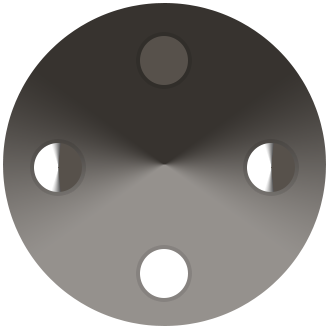
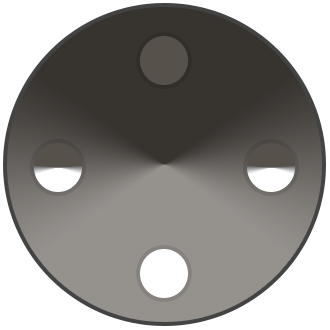
Added moon and season disks

diff --git a/src/views/sunandmoon-disks-pixi.js b/src/views/sunandmoon-disks-pixi.js
@@ -1,0 +1,240 @@
+// src/views/sunandmoon-disks-pixi.js
+// Two rotating HUD disks: Moon cycle + Season cycle.
+// Pure view module: reads state, never mutates it.
+
+import {
+  SEASON_DURATION_SEC,
+  MOON_CYCLE_SEC,
+  MOON_PHASE_OFFSET_SEC,
+} from "../defs/gamesettings/gamerules-defs.js";
+
+export const SUN_AND_MOON_DISKS_LAYOUT = {
+  enabled: true,
+
+  moon: {
+    x: 1375,
+    y: -10,
+    scale: 0.5,
+    alpha: 1.0,
+    rotationOffsetRad: 3,
+    clockwise: true,
+    texturePath: "/images/MoonDisk_01.png",
+  },
+
+  season: {
+    x: 1300,
+    y: -10,
+    scale: 0.75,
+    alpha: 1.0,
+    rotationOffsetRad: 0,
+    clockwise: true,
+    texturePath: "/images/SeasonDisk_01.png",
+    quadrants: 4,
+  },
+
+  zIndex: 0,
+};
+
+// ----------------------------------------------------------------------------
+
+function clamp01(v) {
+  if (!Number.isFinite(v)) return 0;
+  return Math.max(0, Math.min(1, v));
+}
+
+function clampInt(v, fallback) {
+  const n = Math.floor(v);
+  return Number.isFinite(n) ? n : fallback;
+}
+
+function getTSecInt(state) {
+  const t = Math.floor(state?.tSec ?? 0);
+  return Number.isFinite(t) ? Math.max(0, t) : 0;
+}
+
+// Scrub correctness: prefer tSec (graph boundary time).
+// Live smoothness: if simStepIndex is consistent with tSec, use it for fractional seconds.
+function getTimeSecForRotation(state) {
+  const tSec = getTSecInt(state);
+
+  const steps = state?.simStepIndex;
+  if (Number.isFinite(steps)) {
+    const tf = Math.max(0, steps / 60);
+    // Only trust simStepIndex if it corresponds to the same boundary second.
+    if (Math.floor(tf) === tSec) return tf;
+  }
+
+  // Fallback: exact boundary time (scrub-safe)
+  return tSec;
+}
+
+function phase01ToRotationRad(phase01, { clockwise, rotationOffsetRad }) {
+  const p = clamp01(phase01);
+  const dir = clockwise ? 1 : -1;
+  return (rotationOffsetRad || 0) + dir * p * Math.PI * 2;
+}
+
+// Monotonic orbit phase: 0..1 wrapping, never reverses.
+function getMoonOrbitPhase01AtTime(timeSec) {
+  const cycleSec = Math.max(1, clampInt(MOON_CYCLE_SEC, 30));
+  const offsetSec = clampInt(MOON_PHASE_OFFSET_SEC, Math.floor(cycleSec / 2));
+  const t = Math.max(0, Number.isFinite(timeSec) ? timeSec : 0);
+  const phaseSec = (t + offsetSec) % cycleSec;
+  return clamp01(phaseSec / cycleSec);
+}
+
+// Season progress within current season (0..1).
+function getSeasonProgress01(state, timeSec) {
+  const seasonLen = Math.max(1, clampInt(SEASON_DURATION_SEC, 30));
+
+  // Prefer countdown value if present (matches chrome usage)
+  const remaining = state?.seasonTimeRemaining;
+  if (Number.isFinite(remaining)) {
+    return clamp01(1 - remaining / seasonLen);
+  }
+
+  // Next preference: explicit clock
+  const clock = state?.seasonClockSec;
+  if (Number.isFinite(clock)) {
+    const raw = clock / seasonLen;
+    const wrapped = raw - Math.floor(raw);
+    return clamp01(wrapped);
+  }
+
+  // Fallback: derive from time modulo
+  const t = Math.max(0, Number.isFinite(timeSec) ? timeSec : 0);
+  return clamp01(((t % seasonLen) / seasonLen) || 0);
+}
+
+// Full wheel phase (0..1) including season index quadrant.
+function getSeasonWheelPhase01(state, timeSec, quadrants) {
+  const q = Math.max(1, clampInt(quadrants, 4));
+
+  const idxRaw = state?.currentSeasonIndex;
+  const idx = Number.isFinite(idxRaw) ? Math.floor(idxRaw) : 0;
+  const wrappedIdx = ((idx % q) + q) % q;
+
+  const p = getSeasonProgress01(state, timeSec);
+
+  return clamp01((wrappedIdx + p) / q);
+}
+
+// ----------------------------------------------------------------------------
+
+export function createSunAndMoonDisksView({
+  layer,
+  getState,
+  layout = SUN_AND_MOON_DISKS_LAYOUT,
+} = {}) {
+  let root = null;
+  let moonSprite = null;
+  let seasonSprite = null;
+  let lastEnabled = null;
+
+  function ensureCreated() {
+    if (!layer) return { ok: false, reason: "noLayer" };
+    if (root) return { ok: true };
+
+    root = new PIXI.Container();
+    root.eventMode = "none";
+    root.zIndex = layout?.zIndex ?? 0;
+
+    // Season behind
+    {
+      const tex = PIXI.Texture.from(layout.season.texturePath);
+      seasonSprite = new PIXI.Sprite(tex);
+      seasonSprite.anchor.set(0.5);
+      seasonSprite.eventMode = "none";
+      root.addChild(seasonSprite);
+    }
+
+    // Moon front
+    {
+      const tex = PIXI.Texture.from(layout.moon.texturePath);
+      moonSprite = new PIXI.Sprite(tex);
+      moonSprite.anchor.set(0.5);
+      moonSprite.eventMode = "none";
+      root.addChild(moonSprite);
+    }
+
+    layer.addChild(root);
+    return { ok: true };
+  }
+
+  function applyLayout() {
+    if (!root) return;
+
+    const enabled = layout?.enabled !== false;
+    root.visible = enabled;
+
+    if (moonSprite) {
+      moonSprite.x = layout.moon.x;
+      moonSprite.y = layout.moon.y;
+      moonSprite.scale.set(layout.moon.scale);
+      moonSprite.alpha = layout.moon.alpha;
+    }
+
+    if (seasonSprite) {
+      seasonSprite.x = layout.season.x;
+      seasonSprite.y = layout.season.y;
+      seasonSprite.scale.set(layout.season.scale);
+      seasonSprite.alpha = layout.season.alpha;
+    }
+  }
+
+  function init() {
+    const res = ensureCreated();
+    if (!res.ok) return res;
+    applyLayout();
+    lastEnabled = layout?.enabled !== false;
+    return { ok: true };
+  }
+
+  function update(_frameDt) {
+    if (!root || !getState) return;
+
+    const enabled = layout?.enabled !== false;
+    if (enabled !== lastEnabled) {
+      applyLayout();
+      lastEnabled = enabled;
+    }
+    if (!enabled) return;
+
+    const state = getState();
+    if (!state) return;
+
+    const timeSec = getTimeSecForRotation(state);
+
+    if (moonSprite) {
+      const orbit01 = getMoonOrbitPhase01AtTime(timeSec);
+      moonSprite.rotation = phase01ToRotationRad(orbit01, layout.moon);
+    }
+
+    if (seasonSprite) {
+      const q =
+        Number.isFinite(layout.season?.quadrants) && layout.season.quadrants > 0
+          ? layout.season.quadrants
+          : 4;
+
+      const wheel01 = getSeasonWheelPhase01(state, timeSec, q);
+      seasonSprite.rotation = phase01ToRotationRad(wheel01, layout.season);
+    }
+  }
+
+  function destroy() {
+    if (!root) return;
+    root.removeFromParent();
+    root.destroy({ children: true });
+    root = null;
+    moonSprite = null;
+    seasonSprite = null;
+  }
+
+  return {
+    init,
+    update,
+    applyLayout,
+    destroy,
+    getRoot: () => root,
+  };
+}

diff --git a/src/views/ui-root-pixi.js b/src/views/ui-root-pixi.js
@@ -16,6 +16,10 @@ import { createMetricGraphView } from "./timegraphs-pixi.js";
 import { BOARD_COLS, getBoardColumnCenterX } from "./layout-pixi.js";
 import { createDebugOverlay } from "./debug-overlay-pixi.js";
 import { createActionLogView } from "./action-log-pixi.js";
+import {
+  createSunAndMoonDisksView,
+  SUN_AND_MOON_DISKS_LAYOUT,
+} from "./sunandmoon-disks-pixi.js";
 
 const DESIGN_WIDTH = 1920;
 const DESIGN_HEIGHT = 1080;
@@ -23,7 +27,7 @@ const DESIGN_HEIGHT = 1080;
 export const app = new PIXI.Application({
   width: DESIGN_WIDTH,
   height: DESIGN_HEIGHT,
-  backgroundColor: 0x57514B,
+  backgroundColor: 0x57514b,
   antialias: true,
 });
 
@@ -245,7 +249,7 @@ let goldGraphView = createMetricGraphView({
   clearPreviewState: () => runner.clearPreviewState(),
   // STAGE 3: Use commitCursorSecond
   commitSecond: (t, stateData) => runner.commitCursorSecond(t, stateData),
-  openPosition: { x: 350, y: 280},
+  openPosition: { x: 350, y: 280 },
 });
 
 let apGraphView = createMetricGraphView({
@@ -297,8 +301,14 @@ const chromeView = createChromeView({
     else apGraphView.close();
   },
   getTimeScale: () => runner.getTimeScale?.(),
-  setTimeScaleTarget: (speed, opts) =>
-    runner.setTimeScaleTarget?.(speed, opts),
+  setTimeScaleTarget: (speed, opts) => runner.setTimeScaleTarget?.(speed, opts),
+});
+
+// NEW: Sun/Moon rotating disks HUD view
+const sunMoonDisksView = createSunAndMoonDisksView({
+  layer: uiLayers.controlsLayer,
+  getState: () => runner.getState(), 
+  layout: SUN_AND_MOON_DISKS_LAYOUT,
 });
 
 const debugView = createDebugOverlay({
@@ -338,6 +348,7 @@ inventoryView.init();
 boardView.init();
 charactersView.init();
 chromeView.init();
+sunMoonDisksView.init(); // NEW
 actionLogView.init();
 apGraphView.open();
 
@@ -350,10 +361,11 @@ app.ticker.add((delta) => {
   tooltipView.update(frameDt);
   inventoryView.update(frameDt);
   chromeView.update(frameDt);
+  sunMoonDisksView.update(frameDt); // NEW
   actionLogView.update(frameDt);
   debugView.update();
-  const anyGraphOpen =
-    goldGraphView.isOpen() || apGraphView.isOpen();
+
+  const anyGraphOpen = goldGraphView.isOpen() || apGraphView.isOpen();
   timeGraphController.setActive?.(anyGraphOpen);
   if (anyGraphOpen) {
     timeGraphController.update();

diff --git a/src/views/inventory-pixi.js b/src/views/inventory-pixi.js
@@ -5,15 +5,11 @@
 // - Handles drag/drop + stack splitting.
 // - Does NOT contain game rules; delegates legality + mutation to the model.
 //
-// Stage 6 fix: preserve original visuals/UX, but route mutations through injected handlers
-// (timeline-aware dispatcher in ui-root-pixi.js). No direct model mutations here.
-//
+
 
 import { itemDefs } from "../defs/gamepieces/gamepieces-defs.js";
 
-// NOTE: Stage 6 — removed direct model mutation imports.
-// import { cmdSplitStackAndPlace } from "../model/commands.js";
-// import { tryMoveItemBetweenOwners } from "../model/game-model.js";
+
 
 const DESIGN_WIDTH = 1920;
 const DESIGN_HEIGHT = 1080;
